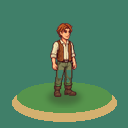
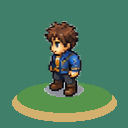
Use supplied 8-direction player sprites

Changed region(s): [[0.3438, 0.1562, 0.6562, 0.8125]]

diff --git a/tools/build_isometric_assets.py b/tools/build_isometric_assets.py
@@ -335,9 +335,9 @@ DIRECTIONS = [
 ANIMATION_FRAME_COUNT = 16
 
 ANIMATIONS = [
-    ("idle", ANIMATION_FRAME_COUNT),
-    ("walk", ANIMATION_FRAME_COUNT),
-    ("run", ANIMATION_FRAME_COUNT),
+    ("idle", 16),
+    ("walk", 5),
+    ("run", 4),
     ("axe", ANIMATION_FRAME_COUNT),
     ("pickaxe", ANIMATION_FRAME_COUNT),
     ("water", ANIMATION_FRAME_COUNT),
@@ -544,72 +544,237 @@ def render_smooth_explorer_frame(
     return canvas
 
 
+def extract_user_animation_frames() -> dict[str, dict[str, list[Image.Image]]]:
+    """Read the labelled 8-direction reference sheet committed as image.png.
+
+    Its rows are ordered N, NE, E, SE, S, SW, W, NW; each contains one idle pose,
+    five walk frames, and four run frames. We identify the sprite silhouettes so labels,
+    dotted dividers, and the white page never make it into the game texture.
+    """
+    with Image.open("image.png") as source_file:
+        source = source_file.convert("RGB")
+    pixels = np.asarray(source, dtype=np.int16)
+    min_channel = pixels.min(axis=2)
+    max_channel = pixels.max(axis=2)
+    chroma = max_channel - min_channel
+    mean = pixels.mean(axis=2)
+    foreground = (min_channel < 188) | ((chroma > 45) & (mean < 242))
+    foreground[:50, :] = False
+    foreground[:, :200] = False
+
+    remaining = foreground.copy()
+    ys, xs = np.nonzero(foreground)
+    by_row: list[list[tuple[int, int, int, int]]] = [[] for _ in range(8)]
+    height, width = foreground.shape
+    for start_y, start_x in zip(ys.tolist(), xs.tolist()):
+        if not remaining[start_y, start_x]:
+            continue
+        stack = [(start_y, start_x)]
+        remaining[start_y, start_x] = False
+        count = 0
+        left = right = start_x
+        top = bottom = start_y
+        while stack:
+            y, x = stack.pop()
+            count += 1
+            left = min(left, x)
+            right = max(right, x)
+            top = min(top, y)
+            bottom = max(bottom, y)
+            for dy in (-1, 0, 1):
+                for dx in (-1, 0, 1):
+                    if dx == 0 and dy == 0:
+                        continue
+                    next_y, next_x = y + dy, x + dx
+                    if 0 <= next_y < height and 200 <= next_x < width and remaining[next_y, next_x]:
+                        remaining[next_y, next_x] = False
+                        stack.append((next_y, next_x))
+        if count < 500:
+            continue
+        row = min(7, max(0, (top - 50) // 120))
+        by_row[row].append((left, top, right + 1, bottom + 1))
+
+    for row, components in enumerate(by_row):
+        components.sort(key=lambda box: box[0])
+        if len(components) != 10:
+            raise ValueError(
+                f"Expected 10 sprites in image.png direction row {row}, found {len(components)}."
+            )
+
+    source_direction_rows = {
+        "down": 4,
+        "down_right": 3,
+        "right": 2,
+        "up_right": 1,
+        "up": 0,
+        "up_left": 7,
+        "left": 6,
+        "down_left": 5,
+    }
+    animations: dict[str, dict[str, list[Image.Image]]] = {
+        "idle": {},
+        "walk": {},
+        "run": {},
+    }
+    for direction, source_row in source_direction_rows.items():
+        direction_boxes = by_row[source_row]
+        boxes_by_state = {
+            "idle": direction_boxes[:1],
+            "walk": direction_boxes[1:6],
+            "run": direction_boxes[6:10],
+        }
+        for state, boxes in boxes_by_state.items():
+            state_frames: list[Image.Image] = []
+            for left, top, right, bottom in boxes:
+                pad = 3
+                crop = source.crop(
+                    (
+                        max(0, left - pad),
+                        max(0, top - pad),
+                        min(width, right + pad),
+                        min(height, bottom + pad),
+                    )
+                )
+                clean = extract_clean_rgba(
+                    crop,
+                    white_threshold=220,
+                    chroma_threshold=36,
+                    min_hole_area=100,
+                )
+                sprite = crop_to_alpha(clean)
+                source_width, source_height = sprite.size
+                target_height = 76
+                target_width = max(1, int(round(source_width * target_height / float(source_height))))
+                sprite = resize_rgba(sprite, (target_width, target_height))
+                frame = Image.new("RGBA", (FRAME_SIZE, FRAME_SIZE), (0, 0, 0, 0))
+                frame.alpha_composite(
+                    sprite,
+                    ((FRAME_SIZE - target_width) // 2, 85 - target_height),
+                )
+                state_frames.append(frame)
+            animations[state][direction] = state_frames
+    return animations
+
+
+def make_idle_breath_frame(source: Image.Image, frame_index: int, frame_count: int) -> Image.Image:
+    """Add a barely perceptible breathing loop to the single supplied idle pose."""
+    phase = (frame_index / float(frame_count)) * 2.0 * math.pi
+    wave = math.sin(phase)
+    rgba = np.asarray(source, dtype=np.uint8)
+    yy, xx = np.meshgrid(
+        np.arange(FRAME_SIZE, dtype=np.float32),
+        np.arange(FRAME_SIZE, dtype=np.float32),
+        indexing="ij",
+    )
+    y_norm = np.clip((yy - 8.0) / 76.0, 0.0, 1.0)
+    upper = np.clip((0.80 - y_norm) / 0.50, 0.0, 1.0)
+    source_x = xx + math.cos(phase) * 0.22 * upper
+    source_y = yy - wave * 0.72 * upper
+    return Image.fromarray(bilinear_warp_rgba(rgba, source_x, source_y), "RGBA")
+
+
+def make_action_frame(
+    source: Image.Image,
+    direction: str,
+    action: str,
+    frame_index: int,
+    frame_count: int,
+) -> Image.Image:
+    """Re-use the new outfit for tool actions and add the matching animated tool overlay."""
+    phase = frame_index / float(max(1, frame_count - 1)) * math.tau
+    bell = math.sin(math.pi * frame_index / float(max(1, frame_count - 1))) ** 2
+    side = -1.0 if "left" in direction else 1.0
+    rgba = np.asarray(source, dtype=np.uint8)
+    yy, xx = np.meshgrid(
+        np.arange(FRAME_SIZE, dtype=np.float32),
+        np.arange(FRAME_SIZE, dtype=np.float32),
+        indexing="ij",
+    )
+    y_norm = np.clip((yy - 8.0) / 76.0, 0.0, 1.0)
+    upper = np.clip((0.78 - y_norm) / 0.52, 0.0, 1.0)
+    lower = np.clip((y_norm - 0.48) / 0.48, 0.0, 1.0)
+    source_x = xx.copy()
+    source_y = yy.copy()
+
+    if action in ("axe", "pickaxe"):
+        swing = math.sin(phase) * bell
+        source_x -= swing * side * 1.7 * upper
+        source_y -= bell * 1.05 * upper
+        source_x += swing * side * 0.4 * lower
+    elif action == "water":
+        source_x += side * bell * 0.8 * upper
+        source_y += bell * 1.25 * upper
+    elif action == "interact":
+        source_x += side * bell * 0.5 * upper
+        source_y += bell * 1.4 * upper
+
+    frame = Image.fromarray(bilinear_warp_rgba(rgba, source_x, source_y), "RGBA")
+    draw_action_overlay(frame, direction, action, frame_index, frame_count, -bell)
+    return frame
+
+
 def build_explorer_spritesheet() -> None:
-    print("Building high-resolution 8-direction Explorer animations...")
-    source_dir = Path("assets/ai_raw")
-    poses = {
-        "down": "ai_character_south.png",
-        "down_left": "ai_character_south_east.png",
-        "right": "ai_character_east.png",
-        "up_left": "ai_character_north_east.png",
-        "up": "ai_character_north.png",
-    }
-    cleaned: dict[str, Image.Image] = {}
-    for direction, filename in poses.items():
-        image = extract_clean_rgba(
-            Image.open(source_dir / filename),
-            min_hole_area=120,
-            strip_floor_shadow=True,
-        )
-        cleaned[direction] = crop_to_alpha(image)
-
-    def normalize_pose(image: Image.Image, target_height: int = 216) -> Image.Image:
-        width, height = image.size
-        target_width = max(1, int(round(width * target_height / float(max(1, height)))))
-        return resize_rgba(image, (target_width, target_height))
-
-    down = normalize_pose(cleaned["down"])
-    down_left = normalize_pose(cleaned["down_left"])
-    right = normalize_pose(cleaned["right"])
-    up_left = normalize_pose(cleaned["up_left"])
-    up = normalize_pose(cleaned["up"])
-
-    poses_by_direction = {
-        "down": down,
-        "down_right": down_left.transpose(Image.Transpose.FLIP_LEFT_RIGHT),
-        "right": right,
-        "up_right": up_left.transpose(Image.Transpose.FLIP_LEFT_RIGHT),
-        "up": up,
-        "up_left": up_left,
-        "left": right.transpose(Image.Transpose.FLIP_LEFT_RIGHT),
-        "down_left": down_left,
-    }
-
-    columns = ANIMATION_FRAME_COUNT
+    print("Extracting the supplied 8-direction sprite sheet and building game animations...")
+    source_animations = extract_user_animation_frames()
     rows = len(ANIMATIONS) * len(DIRECTIONS)
-    sheet = Image.new("RGBA", (columns * FRAME_SIZE, rows * FRAME_SIZE), (0, 0, 0, 0))
+    sheet = Image.new(
+        "RGBA",
+        (ANIMATION_FRAME_COUNT * FRAME_SIZE, rows * FRAME_SIZE),
+        (0, 0, 0, 0),
+    )
     showcase = Image.new(
         "RGBA",
         (len(DIRECTIONS) * FRAME_SIZE, len(ANIMATIONS) * FRAME_SIZE),
         (235, 226, 208, 255),
     )
     showcase_draw = ImageDraw.Draw(showcase)
+    icon_idle_frame: Image.Image | None = None
 
-    row_index = 0
+    showcase_samples = {
+        "idle": 8,
+        "walk": 2,
+        "run": 2,
+        "axe": 7,
+        "pickaxe": 7,
+        "water": 7,
+        "interact": 7,
+    }
+
     for animation_index, (animation, frame_count) in enumerate(ANIMATIONS):
-        sample_frame = 4 if animation != "idle" else 0
         for direction_index, direction in enumerate(DIRECTIONS):
-            pose = poses_by_direction[direction]
-            for column in range(columns):
-                frame = render_smooth_explorer_frame(pose, direction, animation, column, frame_count)
-                sheet.alpha_composite(frame, (column * FRAME_SIZE, row_index * FRAME_SIZE))
-                if column == sample_frame:
-                    x = direction_index * FRAME_SIZE
-                    y = animation_index * FRAME_SIZE
-                    background = (236, 228, 211, 255) if (animation_index + direction_index) % 2 == 0 else (226, 216, 198, 255)
-                    showcase_draw.rectangle((x + 1, y + 1, x + FRAME_SIZE - 2, y + FRAME_SIZE - 2), fill=background)
-                    showcase.alpha_composite(frame, (x, y))
-            row_index += 1
+            if animation == "idle":
+                idle_pose = source_animations["idle"][direction][0]
+                frames = [
+                    make_idle_breath_frame(idle_pose, frame, frame_count)
+                    for frame in range(frame_count)
+                ]
+                if direction == "down_right":
+                    icon_idle_frame = frames[0]
+            elif animation in ("walk", "run"):
+                frames = source_animations[animation][direction]
+            else:
+                idle_pose = source_animations["idle"][direction][0]
+                frames = [
+                    make_action_frame(idle_pose, direction, animation, frame, frame_count)
+                    for frame in range(frame_count)
+                ]
+
+            row = animation_index * len(DIRECTIONS) + direction_index
+            for frame_index, frame in enumerate(frames):
+                sheet.alpha_composite(
+                    frame,
+                    (frame_index * FRAME_SIZE, row * FRAME_SIZE),
+                )
+
+            sample_index = min(showcase_samples[animation], len(frames) - 1)
+            x = direction_index * FRAME_SIZE
+            y = animation_index * FRAME_SIZE
+            background = (236, 228, 211, 255) if (animation_index + direction_index) % 2 == 0 else (226, 216, 198, 255)
+            showcase_draw.rectangle(
+                (x + 1, y + 1, x + FRAME_SIZE - 2, y + FRAME_SIZE - 2),
+                fill=background,
+            )
+            showcase.alpha_composite(frames[sample_index], (x, y))
 
     sheet.save("assets/sprites/player_spritesheet.png", optimize=True)
     showcase.save("assets/sprites/player_8dir_showcase.png", optimize=True)
@@ -618,9 +783,10 @@ def build_explorer_spritesheet() -> None:
     icon_draw = ImageDraw.Draw(icon)
     icon_draw.ellipse((12, 84, 116, 121), fill=(212, 176, 111, 255))
     icon_draw.ellipse((17, 82, 111, 112), fill=(86, 148, 76, 255))
-    icon.alpha_composite(render_smooth_explorer_frame(poses_by_direction["down_right"], "down_right", "idle", 0, ANIMATION_FRAME_COUNT), (16, 12))
+    if icon_idle_frame is not None:
+        icon.alpha_composite(icon_idle_frame, (16, 12))
     icon.save("icon.png", optimize=True)
-    print(f"Saved {sheet.width}x{sheet.height} sprite sheet and 8-direction showcase.")
+    print(f"Saved {sheet.width}x{sheet.height} player sheet with supplied walk/run frames.")
 
 
 def mix_color(first: tuple[int, int, int], second: tuple[int, int, int], amount: float) -> tuple[int, int, int]:

diff --git a/README.md b/README.md
@@ -5,11 +5,11 @@
 ## Графика и ресурсы
 
 ### Персонаж — `assets/sprites/player_spritesheet.png`
-- Спрайт-лист `1536×5376 px`: 56 рядов × 16 кадров `96×96 px`.
+- Спрайт-лист `1536×5376 px`: 56 рядов × 16 ячеек `96×96 px`.
 - Восемь направлений и семь состояний: `idle`, `walk`, `run`, `axe`, `pickaxe`, `water`, `interact`.
-- Для персонажа перегенерированы ИИ пять ракурсов спокойной позы (`assets/ai_raw/ai_character_*.png`); недостающие направления отражаются по горизонтали.
-- В спокойствии, ходьбе и беге теперь по 16 кадров на каждое из 8 направлений; частота кадров удвоена, чтобы сохранить прежнюю длительность циклов и сделать движение плавнее.
-- Высота персонажа в кадре — до `74 px`. Детализация и полупрозрачные края сохраняются Lanczos-фильтрацией.
+- Кадры `idle` (1), `walk` (5) и `run` (4) вырезаны из предоставленного `image.png`; порядок направлений сопоставлен с `scripts/player.gd`.
+- Для игрового цикла `idle` добавлено лёгкое дыхание; исходные 5 кадров ходьбы и 4 кадра бега проигрываются циклически. Инструментальные действия используют тот же новый спрайт и отдельные наложения инструментов.
+- Кадры выровнены по базовой линии и помещены на прозрачный фон; размер спрайта остаётся совместим с камерой и коллизиями.
 - Витрина ракурсов и состояний: `assets/sprites/player_8dir_showcase.png` (`768×672 px`).
 
 ### Изометрический тайлсет — `assets/tilesets/world_tileset.png`
